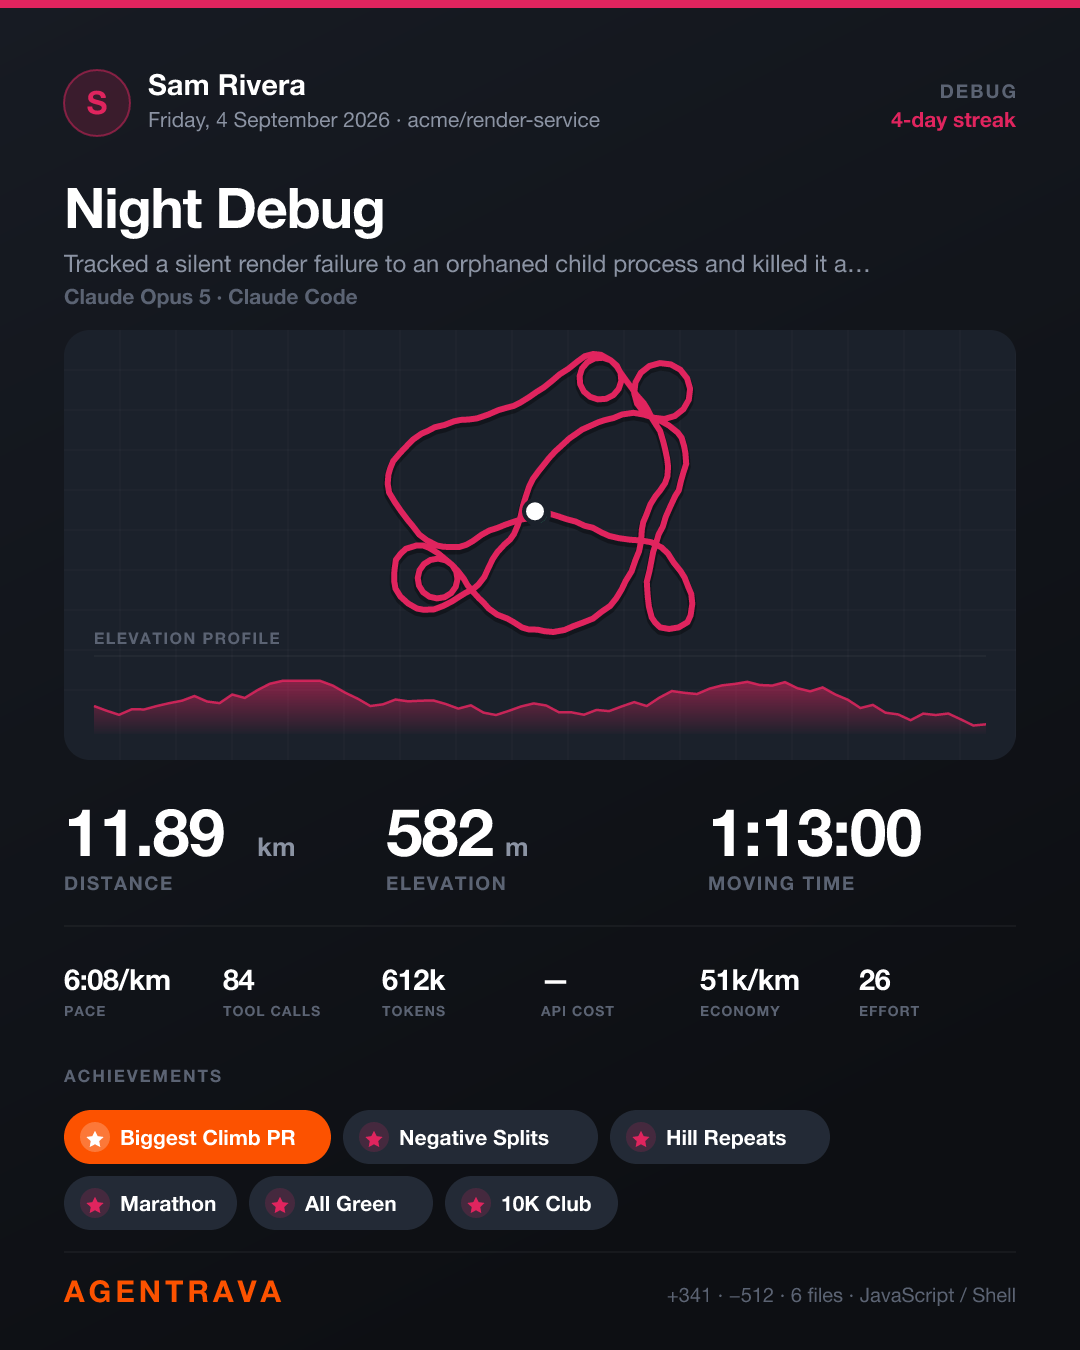
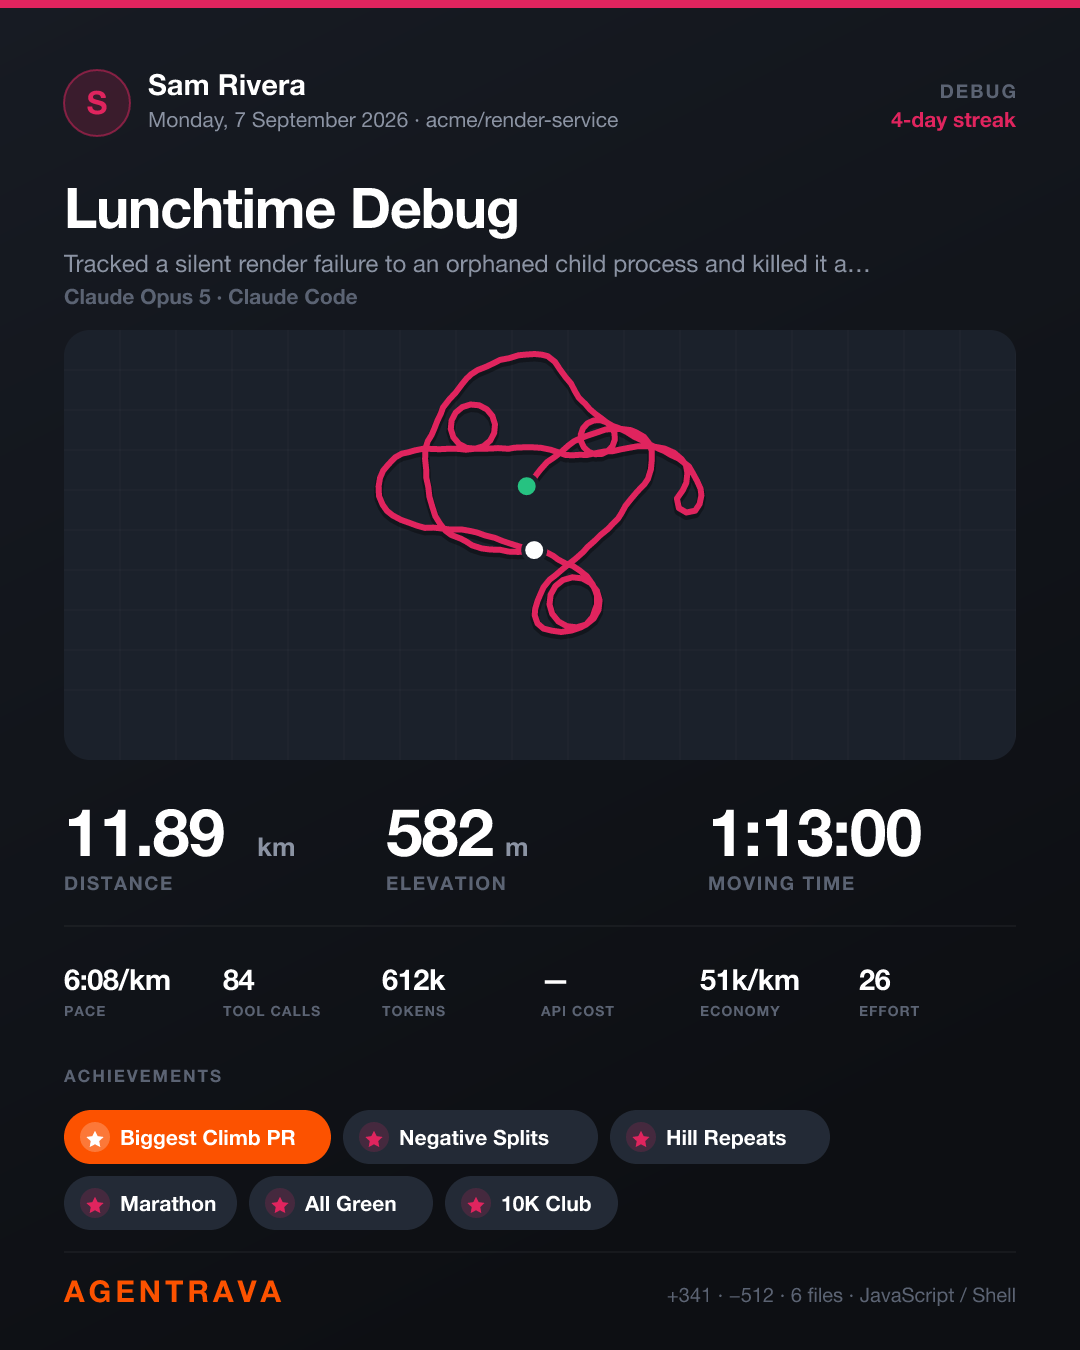
Make the elevation profile real
The strip under the route was a seeded random walk reading nothing but the
activity id — the same "ELEVATION PROFILE" label over pure noise, identical in
character for a session that climbed 5,880 m and one that climbed 37 m.

It now plots cumulative climb: every file written and error recovered is
positioned by moving time and weighted exactly as the elevation formula weights
it, so the area under the curve is the elevation figure on the card. Sessions
with fewer than three climb events get no strip at all rather than an invented
one; 81% have a profile.

Building it exposed that Cursor counted a file as changed whenever any tool
carried its path, including read_file_v2, so files merely opened inflated
elevation (median 555 m -> 120 m once restricted to real edits). Cursor stores
arguments for only 477 of 15,142 edit calls and its results hold content hashes
rather than paths, so files_changed there is now an honest undercount.

diff --git a/src/cursor.js b/src/cursor.js
@@ -10,6 +10,7 @@ import path from 'node:path';
 import os from 'node:os';
 import { execFileSync } from 'node:child_process';
 import { dominantModel } from './models.js';
+import { buildProfile } from './session.js';
 
 export const DEFAULT_DB = path.join(os.homedir(),
   'Library', 'Application Support', 'Cursor', 'User', 'globalStorage', 'state.vscdb');
@@ -55,6 +56,11 @@ const J = (p) => `json_extract(value,'$.${p}')`;
 // rawArgs is not always valid JSON — a streamed edit can be cut off mid-write, and
 // json_extract aborts the entire query on the first malformed row. Guard every read.
 const RAW = J('toolFormerData.rawArgs');
+// Only these actually change a file. Counting every tool that carries a path
+// credited reads as edits, which inflated files_changed and so elevation.
+const EDIT_TOOLS = ['edit_file_v2', 'search_replace', 'write', 'apply_patch',
+                    'create_file', 'MultiEdit', 'str_replace_editor'];
+const IS_EDIT = `${J('toolFormerData.name')} IN (${EDIT_TOOLS.map((t) => `'${t}'`).join(',')})`;
 const ARG = (k) => `(CASE WHEN json_valid(${RAW}) THEN json_extract(${RAW},'$.${k}') END)`;
 
 // One grouped pass over the whole table. Per-conversation `LIKE 'bubbleId:<id>:%'`
@@ -62,6 +68,26 @@ const ARG = (k) => `(CASE WHEN json_valid(${RAW}) THEN json_extract(${RAW},'$.${
 // times out; this scans once and returns every conversation at once.
 // Which model drove each conversation. Most bubbles record "default", so only the
 // named ones count — about a sixth of conversations end up with real gear.
+// Where the climbing happened, for the elevation profile. Cursor has no
+// per-file first-touch signal in one pass, so an edit call stands in for a file
+// touched; errors carry the same weight as elsewhere.
+function scanClimb(db) {
+  const out = new Map();
+  for (const [c, at, err, edit] of query(db, `
+    SELECT substr(key,10,36) c, ${J('createdAt')},
+           ${J('toolFormerData.status')}='error',
+           ${IS_EDIT}
+    FROM cursorDiskKV
+    WHERE key LIKE 'bubbleId:%' AND ${J('toolFormerData.name')} IS NOT NULL
+      AND ${J('createdAt')} IS NOT NULL;`)) {
+    const gain = (err === '1' ? 120 : 0) + (edit === '1' ? 37 : 0);
+    if (!gain) continue;
+    if (!out.has(c)) out.set(c, []);
+    out.get(c).push({ t: Date.parse(at), gain });
+  }
+  return out;
+}
+
 function scanModels(db) {
   const out = new Map();
   for (const [c, m, n] of query(db, `
@@ -126,7 +152,7 @@ function scanFiles(db) {
   const out = new Map();
   for (const [c, p] of query(db, `
       SELECT DISTINCT substr(key,10,36), coalesce(${ARG('path')}, ${ARG('file_path')})
-      FROM cursorDiskKV WHERE key LIKE 'bubbleId:%' AND ${RAW} IS NOT NULL;`)) {
+      FROM cursorDiskKV WHERE key LIKE 'bubbleId:%' AND ${RAW} IS NOT NULL AND ${IS_EDIT};`)) {
     if (!p || !p.startsWith('/')) continue;
     if (!out.has(c)) out.set(c, new Set());
     out.get(c).add(p);
@@ -156,6 +182,7 @@ export function scanCursorDb(db = DEFAULT_DB) {
   if (!fs.existsSync(db)) throw new Error(`no Cursor database at ${db}`);
   const bubbles = scanBubbles(db);
   const models = scanModels(db);
+  const climbs = scanClimb(db);
   const diffs = scanDiffs(db);
   const files = scanFiles(db);
   const times = scanTimes(db);
@@ -167,6 +194,18 @@ export function scanCursorDb(db = DEFAULT_DB) {
     for (let i = 1; i < ts.length; i++) moving += Math.min(ts[i] - ts[i - 1], 300_000);
     const d = diffs.get(id) || { added: 0, removed: 0 };
     b.model = dominantModel(models.get(id) || {});
+    // Position each climb event by moving time, matching the Claude Code path.
+    const raw = (climbs.get(id) || []).filter((e) => !Number.isNaN(e.t)).sort((x, y) => x.t - y.t);
+    if (raw.length >= 3 && ts.length) {
+      let acc = 0, prev = null, k = 0;
+      const events = [];
+      for (const t of ts) {
+        if (prev !== null && t > prev) acc += Math.min(t - prev, 300_000);
+        prev = t;
+        while (k < raw.length && raw[k].t <= t) { events.push({ at: acc, gain: raw[k].gain }); k++; }
+      }
+      b.profile = buildProfile(events, acc);
+    }
     out.set(id, {
       ...b, moving,
       files: files.get(id) || new Set(),

diff --git a/src/session.js b/src/session.js
@@ -1,3 +1,23 @@
+export const PROFILE_SLICES = 72;
+
+// A real elevation profile is altitude over distance, so this is cumulative
+// climb: flat where the session ran smoothly, steep where files were being
+// written and errors recovered. Bucketing by moving time rather than wall-clock
+// keeps an idle gap from collapsing the session into one bar. Scaled 0-100, so
+// the last value is always 100 and the shape carries the information.
+export function buildProfile(events, movingMs) {
+  if (!events || events.length < 3 || !movingMs) return null;
+  const bins = new Array(PROFILE_SLICES).fill(0);
+  for (const e of events) {
+    const i = Math.min(PROFILE_SLICES - 1, Math.max(0, Math.floor((e.at / movingMs) * PROFILE_SLICES)));
+    bins[i] += e.gain;
+  }
+  let total = 0;
+  const cumulative = bins.map((v) => (total += v));
+  if (!total) return null;
+  return cumulative.map((v) => Math.round((v / total) * 100));
+}
+
 // Shared session parser: turns a Claude Code transcript into a logged activity.
 // Used by the Stop hook (one session, live) and by the backfill (all of them).
 import fs from 'node:fs';
@@ -86,6 +106,7 @@ async function parseTranscript(file) {
     toolCalls: 0, tokens: 0, errors: 0, files: new Set(),
     added: 0, removed: 0, first: null, last: null, moving: 0, prompt: '', cwd: '',
     shellFiles: new Set(), models: {},
+    events: [],   // { at: moving-ms so far, gain: elevation earned }
     tokIn: 0, tokOut: 0, tokCacheWrite: 0, tokCacheRead: 0, costUsd: 0,
   };
   // Strava auto-pauses when you stop moving; a resumed session otherwise clocks
@@ -107,6 +128,7 @@ async function parseTranscript(file) {
       if (s.last === null || ts > s.last) s.last = ts;
       if (prevTs !== null && ts > prevTs) s.moving += Math.min(ts - prevTs, GAP_CAP_MS);
       prevTs = ts;
+      s.atMoving = s.moving;   // position of anything recorded from this entry
     }
     if (!s.cwd && d.cwd) s.cwd = d.cwd;
 
@@ -136,7 +158,11 @@ async function parseTranscript(file) {
     const content = (d.message || {}).content;
     if (Array.isArray(content)) {
       for (const b of content) {
-        if (b && b.type === 'tool_result' && b.is_error) s.errors++;
+        if (b && b.type === 'tool_result' && b.is_error) {
+          s.errors++;
+          // Same weights as the elevation formula, so the profile's area is the climb.
+          s.events.push({ at: s.atMoving || 0, gain: 120 });
+        }
       }
     } else if (typeof content === 'string' && !s.prompt && !d.isMeta && !d.toolUseResult) {
       s.prompt = content.trim();
@@ -145,7 +171,10 @@ async function parseTranscript(file) {
     const r = d.toolUseResult;
     if (!r || typeof r !== 'object') continue;
     const fp = r.filePath || (r.file && r.file.filePath);
-    if (fp) s.files.add(fp);
+    if (fp) {
+      if (!s.files.has(fp)) s.events.push({ at: s.atMoving || 0, gain: 37 });
+      s.files.add(fp);
+    }
 
     if (Array.isArray(r.structuredPatch)) {
       for (const hunk of r.structuredPatch) {
@@ -244,6 +273,9 @@ export function storeSession({ sessionId, stats: s, cwd, drawCard = true, dry = 
     tokens_cache_write: s.tokCacheWrite || 0,
     tokens_cache_read: s.tokCacheRead || 0,
     cost_usd: s.costUsd || 0,
+    // Cursor builds its own profile during the scan; only compute here when the
+    // parser handed over raw events instead.
+    profile: s.profile || buildProfile(s.events, s.moving),
     errors_recovered: Math.min(s.errors, 20),
     edits_accepted: s.accepted || 0,
     edits_rejected: s.rejected || 0,

diff --git a/src/card.js b/src/card.js
@@ -103,15 +103,13 @@ function fitPoints(pts, box) {
 const pathOf = (pts) => pts.map(([x, y], i) =>
   `${i ? 'L' : 'M'}${x.toFixed(1)} ${y.toFixed(1)}`).join(' ');
 
+// Draws the activity's recorded climb. Returns null when the session has no
+// profile — an invented curve under a label reading ELEVATION PROFILE is a lie,
+// so those cards get no strip at all.
 function elevationPath(a, box) {
-  const r = rng(hash(a.id + 'elev'));
-  const n = 72, vals = [];
-  let v = 0.4;
-  for (let i = 0; i < n; i++) {
-    // Mean-reverting, or the walk pins itself to the ceiling and draws a brick.
-    v += (r() - 0.5) * 0.26 + (0.45 - v) * 0.13 + Math.sin(i / 6.5) * 0.05;
-    vals.push(Math.min(0.95, Math.max(0.08, v)));
-  }
+  if (!Array.isArray(a.profile) || a.profile.length < 4) return null;
+  const vals = a.profile.map((v) => 0.06 + (Math.max(0, Math.min(100, v)) / 100) * 0.88);
+  const n = vals.length;
   const step = box.w / (n - 1);
   const line = vals.map((val, i) =>
     `${i ? 'L' : 'M'}${(box.x + i * step).toFixed(1)} ${(box.y + box.h - val * box.h).toFixed(1)}`).join(' ');
@@ -263,10 +261,10 @@ export function renderCard(a, { badges = [], prs = [], streak = 0, photo = null 
     <circle cx="${start[0].toFixed(1)}" cy="${start[1].toFixed(1)}" r="11" fill="#26c281" stroke="${C.panel}" stroke-width="4"/>
     <circle cx="${end[0].toFixed(1)}" cy="${end[1].toFixed(1)}" r="11" fill="${C.ink}" stroke="${C.panel}" stroke-width="4"/>
     ${photo ? `<rect x="${mapBox.x}" y="${elevBox.y - 90}" width="${mapBox.w}" height="${mapBox.h - (elevBox.y - 90 - mapBox.y)}" fill="url(#photoscrim)"/>` : ''}
-    <line x1="${mapBox.x + 30}" y1="${elevBox.y - 22}" x2="${mapBox.x + mapBox.w - 30}" y2="${elevBox.y - 22}" stroke="#ffffff" stroke-opacity="${photo ? 0.16 : 0.07}"/>
+    ${elev ? `<line x1="${mapBox.x + 30}" y1="${elevBox.y - 22}" x2="${mapBox.x + mapBox.w - 30}" y2="${elevBox.y - 22}" stroke="#ffffff" stroke-opacity="${photo ? 0.16 : 0.07}"/>
     <path d="${elev.area}" fill="url(#elevfill)"/>
     <path d="${elev.line}" fill="none" stroke="${accent}" stroke-opacity="0.85" stroke-width="2.5"/>
-    <text x="${mapBox.x + 30}" y="${elevBox.y - 34}" fill="${photo ? '#ffffff' : C.dim}" fill-opacity="${photo ? 0.72 : 1}" font-size="16" font-weight="600" letter-spacing="1.4">ELEVATION PROFILE</text>
+    <text x="${mapBox.x + 30}" y="${elevBox.y - 34}" fill="${photo ? '#ffffff' : C.dim}" fill-opacity="${photo ? 0.72 : 1}" font-size="16" font-weight="600" letter-spacing="1.4">CLIMB · ${Math.round(d.elevation_m).toLocaleString('en-US')} m</text>` : ''}
   </g>
 
   <!-- headline stats -->

diff --git a/src/metrics.js b/src/metrics.js
@@ -61,6 +61,7 @@ export function clean(input = {}) {
     notes: (Array.isArray(input.notes) ? input.notes : []).slice(0, 4).map((s) => String(s).slice(0, 80)),
     photo: input.photo ? String(input.photo) : undefined,
     model: input.model ? String(input.model).slice(0, 40) : undefined,
+    profile: Array.isArray(input.profile) && input.profile.length ? input.profile.map((v) => Math.max(0, Math.min(100, Math.round(Number(v) || 0)))) : undefined,
     client: input.client ? String(input.client).slice(0, 30) : undefined,
   };
 }

diff --git a/README.md b/README.md
@@ -336,6 +336,31 @@ output, 373M cache writes and 17.2 **billion** cache reads — 98% of all tokens
 are cache reads, which is why they dominate the cost even at a tenth of the input
 rate.
 
+## The climb profile
+
+The strip under the route is the session's **cumulative climb**: flat where it
+ran smoothly, stepping up wherever a file was written or an error recovered,
+bucketed by moving time so an idle gap doesn't collapse the session into one bar.
+The area under it is the elevation figure on the card.
+
+It was decoration until it wasn't. The original version was a seeded random walk
+that read no session data at all — the same label over pure noise. If a session
+has fewer than three climb events, the strip is **omitted entirely** rather than
+drawn from nothing; 81% of sessions have one.
+
+### Cursor under-reports files changed
+
+Cursor stores the arguments for only 477 of 15,142 `edit_file_v2` calls — the
+rest have empty `rawArgs`, and the result holds content hashes, not paths. So
+**which file an edit touched is usually not recoverable**, and `files_changed`
+counts only the subset that is.
+
+This was worse before: the parser took a path from *any* tool carrying one,
+including `read_file_v2`, so files the agent merely opened counted as changed and
+inflated elevation (median Cursor elevation was 555 m; measuring only real edits
+it is 120 m). Under-reporting something unmeasurable is better than inflating it,
+so Cursor elevation is now driven mainly by errors, which it does record reliably.
+
 ## Photos
 
 Strava lets you put your ride photo behind the route. So does this.
